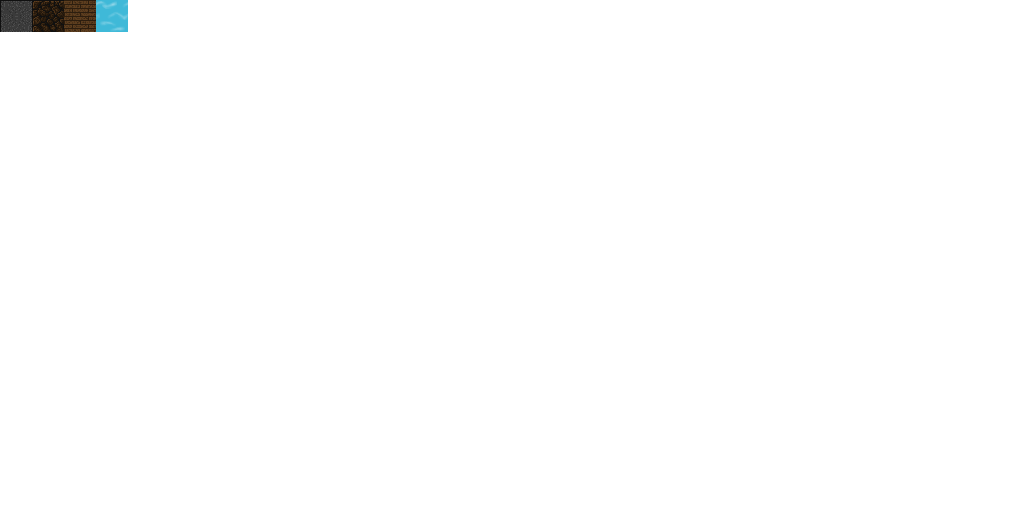
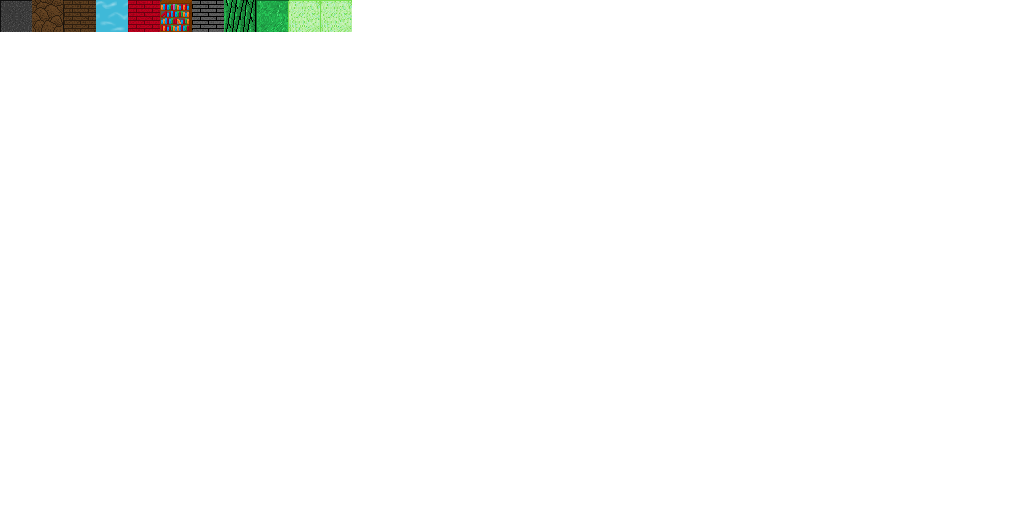
여러 타일 추가

Changed region(s): [[0.125, 0.0, 0.3438, 0.0625], [0.0312, 0.0, 0.0625, 0.0625]]

diff --git a/th_crawl/map_file.cpp b/th_crawl/map_file.cpp
@@ -93,9 +93,9 @@ void baseMap(map_dummy* map)
 		for(int j = 0;j<map->size_y*2+1;j++)
 		{
 			if(map->wall && (i==0 || j==0 || i==map->size_x*2 || j==map->size_y*2))
-				map->tiles[i][j] = DG_WALL;
+				map->tiles[i][j] = map->wall_tex;
 			else
-				map->tiles[i][j] = DG_FLOOR;
+				map->tiles[i][j] = map->floor_tex;
 		}
 	}
 	if(randA(1))
@@ -118,8 +118,8 @@ void baseMap(map_dummy* map)
 		map->m_exit.x = (randA(1)?-map->size_x:map->size_x);
 		map->m_exit.y = rand_int(-map->size_y+1,map->size_y-1);
 	}
-	map->tiles[map->m_entrance.x+map->size_x][map->m_entrance.y+map->size_y] = DG_FLOOR;
-	map->tiles[map->m_exit.x+map->size_x][map->m_exit.y+map->size_y] = DG_FLOOR;
+	map->tiles[map->m_entrance.x+map->size_x][map->m_entrance.y+map->size_y] = map->floor_tex;
+	map->tiles[map->m_exit.x+map->size_x][map->m_exit.y+map->size_y] = map->floor_tex;
 
 	map->m_entrance+=map->pos;
 	map->m_exit+=map->pos;
@@ -135,11 +135,11 @@ void baseCircleMap(map_dummy* map)
 		for(int j = 0;j<map->size_y*2+1;j++)
 		{
 			if(map->wall && (i==0 || j==0 || i==map->size_x*2 || j==map->size_y*2))
-				map->tiles[i][j] = DG_WALL;
+				map->tiles[i][j] = map->wall_tex;
 			else if((i-map->size_x)*(i-map->size_x) + (j-map->size_y)*(j-map->size_y) > ((map->size_y>map->size_x)?map->size_y:map->size_x)*((map->size_y>map->size_x)?map->size_y:map->size_x))
 				map->tiles[i][j] = DG_NONE;
 			else
-				map->tiles[i][j] = DG_FLOOR;
+				map->tiles[i][j] = map->floor_tex;
 		}
 	}
 	if(randA(1))
@@ -162,8 +162,8 @@ void baseCircleMap(map_dummy* map)
 		map->m_exit.x = (randA(1)?-map->size_x:map->size_x);
 		map->m_exit.y = 0;
 	}
-	map->tiles[map->m_entrance.x+map->size_x][map->m_entrance.y+map->size_y] = DG_FLOOR;
-	map->tiles[map->m_exit.x+map->size_x][map->m_exit.y+map->size_y] = DG_FLOOR;
+	map->tiles[map->m_entrance.x+map->size_x][map->m_entrance.y+map->size_y] = map->floor_tex;
+	map->tiles[map->m_exit.x+map->size_x][map->m_exit.y+map->size_y] = map->floor_tex;
 
 	map->m_entrance+=map->pos;
 	map->m_exit+=map->pos;
@@ -193,10 +193,10 @@ void TempleEnterMap(map_dummy* map)
 			switch(temp[j])
 			{
 			case '.':
-				map->tiles[i%(map->size_x*2+1)][i/(map->size_x*2+1)] = DG_FLOOR;
+				map->tiles[i%(map->size_x*2+1)][i/(map->size_x*2+1)] = map->floor_tex;
 				break;
 			case '#':
-				map->tiles[i%(map->size_x*2+1)][i/(map->size_x*2+1)] = DG_WALL;
+				map->tiles[i%(map->size_x*2+1)][i/(map->size_x*2+1)] = map->wall_tex;
 				break;
 			case '0':
 				map->tiles[i%(map->size_x*2+1)][i/(map->size_x*2+1)] = DG_TEMPLE_STAIR;
@@ -239,10 +239,10 @@ void YoukaiEnterMap(map_dummy* map)
 			switch(temp[j])
 			{
 			case '.':
-				map->tiles[i%(map->size_x*2+1)][i/(map->size_x*2+1)] = DG_FLOOR;
+				map->tiles[i%(map->size_x*2+1)][i/(map->size_x*2+1)] = map->floor_tex;
 				break;
 			case '#':
-				map->tiles[i%(map->size_x*2+1)][i/(map->size_x*2+1)] = DG_WALL;
+				map->tiles[i%(map->size_x*2+1)][i/(map->size_x*2+1)] = map->wall_tex;
 				break;
 			case '0':
 				map->tiles[i%(map->size_x*2+1)][i/(map->size_x*2+1)] = DG_YOUKAI_MOUNTAIN_STAIR;
@@ -298,10 +298,10 @@ bool CommonValutMap(map_dummy* map, int pattern)
 			switch(temp[j])
 			{
 			case '.':
-				map->tiles[i%(map->size_x*2+1)][i/(map->size_x*2+1)] = DG_FLOOR;
+				map->tiles[i%(map->size_x*2+1)][i/(map->size_x*2+1)] = map->floor_tex;
 				break;
 			case '#':
-				map->tiles[i%(map->size_x*2+1)][i/(map->size_x*2+1)] = DG_WALL;
+				map->tiles[i%(map->size_x*2+1)][i/(map->size_x*2+1)] = map->wall_tex;
 				break;
 			case 'O':
 				map->tiles[i%(map->size_x*2+1)][i/(map->size_x*2+1)] = DG_TEMPLE_KANAKO;
@@ -344,10 +344,22 @@ bool PixedMap(map_dummy* map, char *temp)
 			switch(temp[j])
 			{
 			case '.':
-				map->tiles[i%(map->size_x*2+1)][i/(map->size_x*2+1)] = DG_FLOOR;
+				map->tiles[i%(map->size_x*2+1)][i/(map->size_x*2+1)] = map->floor_tex;
 				break;
 			case '#':
+				map->tiles[i%(map->size_x*2+1)][i/(map->size_x*2+1)] = map->wall_tex;
+				break;
+			case ',':
+				map->tiles[i%(map->size_x*2+1)][i/(map->size_x*2+1)] = DG_FLOOR;
+				break;
+			case '@':
 				map->tiles[i%(map->size_x*2+1)][i/(map->size_x*2+1)] = DG_WALL;
+				break;
+			case '$':
+				map->tiles[i%(map->size_x*2+1)][i/(map->size_x*2+1)] = DG_METAL_WALL;
+				break;
+			case '[':
+				map->tiles[i%(map->size_x*2+1)][i/(map->size_x*2+1)] = DG_BAMBOO_WALL;
 				break;
 			case '+':
 				map->tiles[i%(map->size_x*2+1)][i/(map->size_x*2+1)] = DG_CLOSE_DOOR;
@@ -432,8 +444,8 @@ void TempleMap(map_dummy* map, int temple_)
 		map->m_exit.x = (randA(1)?-map->size_x:map->size_x);
 		map->m_exit.y = rand_int(-map->size_y+1,map->size_y-1);
 	}
-	map->tiles[map->m_entrance.x+map->size_x][map->m_entrance.y+map->size_y] = DG_FLOOR;
-	map->tiles[map->m_exit.x+map->size_x][map->m_exit.y+map->size_y] = DG_FLOOR;
+	map->tiles[map->m_entrance.x+map->size_x][map->m_entrance.y+map->size_y] = map->floor_tex;
+	map->tiles[map->m_exit.x+map->size_x][map->m_exit.y+map->size_y] = map->floor_tex;
 
 	int x_=rand_int(1,map->size_x*2-1),y_=rand_int(1,map->size_y*2-1);
 	map->tiles[x_][y_] =(dungeon_tile_type)(DG_TEMPLE_FIRST+temple_);

diff --git a/th_crawl/map_pattern.cpp b/th_crawl/map_pattern.cpp
@@ -319,11 +319,11 @@ char* youkai_last_vault_pattern(map_dummy* map)
 #...............#\
 #...###.#####...#\
 #...#.......#...#\
-#...#.###.#.#...#\
-#...#...#.#.....#\
-#...#.##.##.#...#\
-#.....#.#...#...#\
-#...#.#.###.#...#\
+#...#.$$$.$.#...#\
+#...#...$.$.....#\
+#...#.$$.$$.#...#\
+#.....$.$...#...#\
+#...#.$.$$$.#...#\
 #...#.......#...#\
 #...#####.###...#\
 #...............#\
@@ -374,16 +374,16 @@ char* scarlet_last_vault_pattern(map_dummy* map)
 #######+++#######\
 #...............#\
 #...............#\
-#.....#####.....#\
-#...###...###...#\
-#++##...#...##++#\
-#..#.........#..#\
-#..#.........#..#\
-#..#.........#..#\
-#..#.........#..#\
-#..#.........#..#\
-#++#####+#####++#\
-#......#.#......#\
+#.....$$$$$.....#\
+#...$$$...$$$...#\
+#++$$...$...$$++#\
+#..$.........$..#\
+#..$.........$..#\
+#..$.........$..#\
+#..$.........$..#\
+#..$.........$..#\
+#++$$$$$+$$$$$++#\
+#......$.$......#\
 #...............#\
 ##.............##\
 ###...........###\
@@ -430,22 +430,22 @@ char* eientei_vault_pattern(map_dummy* map)
 		return  "\
 .......................................................................\
 .......................................................................\
-.....####################==#########==###########################......\
-.....#......#.#.#.#.#.#.................#.......................#......\
-.....#......#+#+#+#+#+#.................#............##########+#......\
-.....#......+.........+.................+............#..........#......\
-.....#......#+#+#+#+#+#.................#............#..........#......\
-.....#......#.#.#.#.#.#.................#............#+##########......\
-.....##+#################==#########==################..........#......\
-.....#..........#....................................#..........#......\
-.....#..........#....................................#..........#......\
-.....#..........#...............~~~~~~~..............#..........#......\
-.....#####++#####..............~~~~~~~~~.............############......\
-..............................~~~~~~~~~~~..............................\
-...............................~~~~~~~~~...............................\
-................................~~~~~~~................................\
-.......................................................................\
-.......................................................................\
+.....$$$$$$$$$$$$$$$$$$$$==$$$$$$$$$==$$$$$$$$$$$$$$$$$$$$$$$$$$$......\
+.....$,,,,,,$,$,$,$,$,$,,,,,,,,,,,,,,,,,$,,,,,,,,,,,,,,,,,,,,,,,$......\
+.....$,,,,,,$+$+$+$+$+$,,,,,,,,,,,,,,,,,$,,,,,,,,,,,,$$$$$$$$$$+$......\
+.....$,,,,,,+,,,,,,,,,+,,,,,,,,,,,,,,,,,+,,,,,,,,,,,,$,,,,,,,,,,$......\
+.....$,,,,,,$+$+$+$+$+$,,,,,,,,,,,,,,,,,$,,,,,,,,,,,,$,,,,,,,,,,$......\
+.....$,,,,,,$,$,$,$,$,$,,,,,,,,,,,,,,,,,$,,,,,,,,,,,,$+$$$$$$$$$$......\
+.....$$+$$$$$$$$$$$$$$$$$==$$$$$$$$$==$$$$$$$$$$$$$$$$,,,,,,,,,,$......\
+.....$,,,,,,,,,,$....................................$,,,,,,,,,,$......\
+.....$,,,,,,,,,,$........................[...........$,,,,,,,,,,$......\
+.....$,,,,,,,,,,$.....[[........~~~~~~~.......[......$,,,,,,,,,,$......\
+.....$$$$$++$$$$$..............~~~~~~~~~.............$$$$$$$$$$$$......\
+...........................[..~~~~~~~~~~~..............................\
+...................[.....[.....~~~~~~~~~.............[[................\
+...................[............~~~~~~~......[.........................\
+.................................................[.....................\
+.................................[.....................................\
 .......................................................................";
 		break;
 		}

diff --git a/th_crawl/bamboo.cpp b/th_crawl/bamboo.cpp
@@ -21,7 +21,7 @@ void bamboo_count(int num);
 
 
 
-void map_algorithms_bamboo(int num)
+void map_algorithms_bamboo(int num, dungeon_tile_type floor_tex, dungeon_tile_type wall_tex)
 {
 	int d_x = 10, d_y = 10;
 	for(int x = 0; x<DG_MAX_X; x++)
@@ -30,10 +30,10 @@ void map_algorithms_bamboo(int num)
 		{
 			if(randA(10)>1)
 			{
-				env[num].dgtile[x][y].tile = DG_FLOOR;
+				env[num].dgtile[x][y].tile = floor_tex;
 			}
 			else 
-				env[num].dgtile[x][y].tile = DG_WALL;
+				env[num].dgtile[x][y].tile = wall_tex;
 		}
 	}
 	int x_ = DG_MAX_X/2;
@@ -41,7 +41,7 @@ void map_algorithms_bamboo(int num)
 
 	env[num].stair_up[0].x = x_;
 	env[num].stair_up[0].y = y_;
-	env[num].dgtile[x_][y_].tile = DG_FLOOR;
+	env[num].dgtile[x_][y_].tile = floor_tex;
 
 
 	env[num].ClearEvent();
@@ -96,12 +96,12 @@ void bamboo_count(int num)
 					else if(randA(10)>1)
 					{
 						env[num].dgtile[i][j].init();
-						env[num].dgtile[i][j].tile = DG_FLOOR;
+						env[num].dgtile[i][j].tile = DG_GRASS;
 					}
 					else 
 					{
 						env[num].dgtile[i][j].init();
-						env[num].dgtile[i][j].tile = DG_WALL;
+						env[num].dgtile[i][j].tile = DG_BAMBOO_WALL;
 					}
 				}
 				else

diff --git a/th_crawl/map.h b/th_crawl/map.h
@@ -95,13 +95,15 @@ public:
 	coord_def m_exit;
 	bool connect_enter;
 	bool connect_exit;
+	dungeon_tile_type floor_tex;
+	dungeon_tile_type wall_tex;
 
 	list<mapdummy_mon> monster_list;
 	list<mapdummy_item> item_list;
 	list<mapdummy_event> event_list;
 	vector<dungeon_tile_type> sp_tile_list;
 
-	map_dummy(coord_def pos_,bool wall_,int size_x_,int size_y_,int pattern_);
+	map_dummy(coord_def pos_,bool wall_,int size_x_,int size_y_,int pattern_, dungeon_tile_type floor_tex_, dungeon_tile_type wall_tex_);
 	~map_dummy();
 	void patternSet();
 	bool collution(const coord_def& point,int size_x_ = 0,int size_y_ = 0);

diff --git a/th_crawl/environment.h b/th_crawl/environment.h
@@ -50,7 +50,6 @@ public:
 	void CloseDoor(){tile=DG_CLOSE_DOOR;};
 	bool isSight(){return (tile<DG_NONE_MOVE || tile >= DG_GLASS);};
 	bool isFloor(){return (tile>=DG_FLOOR && tile<=DG_FLOOR_END);};
-	bool isWall(){return (tile>=DG_WALL && tile<=DG_WALL_END);};
 	bool isBreakable(){return (tile>=DG_WALL && tile<=DG_WALL_END) || (tile >= DG_CLOSE_DOOR && tile <= DG_GLASS);};
 	bool draw(LPD3DXSPRITE pSprite, float x, float y, D3DCOLOR color)
 	{

diff --git a/th_crawl/tile.cpp b/th_crawl/tile.cpp
@@ -16,10 +16,16 @@ dot_tile_type dungeon_tile::GetDot()
 	{
 	case DG_FLOOR:
 	case DG_FLOOR2:
+	case DG_GRASS:
 		return DOT_FLOOR;
 	case DG_WALL:
 	case DG_GLASS:
 	case DG_STATUE:
+	case DG_STONE_WALL:
+	case DG_RED_WALL:
+	case DG_BOOK_WALL:
+	case DG_BAMBOO_WALL:
+	case DG_METAL_WALL:
 		return DOT_WALL;
 	case DG_CLOSE_DOOR:
 	case DG_OPEN_DOOR:
